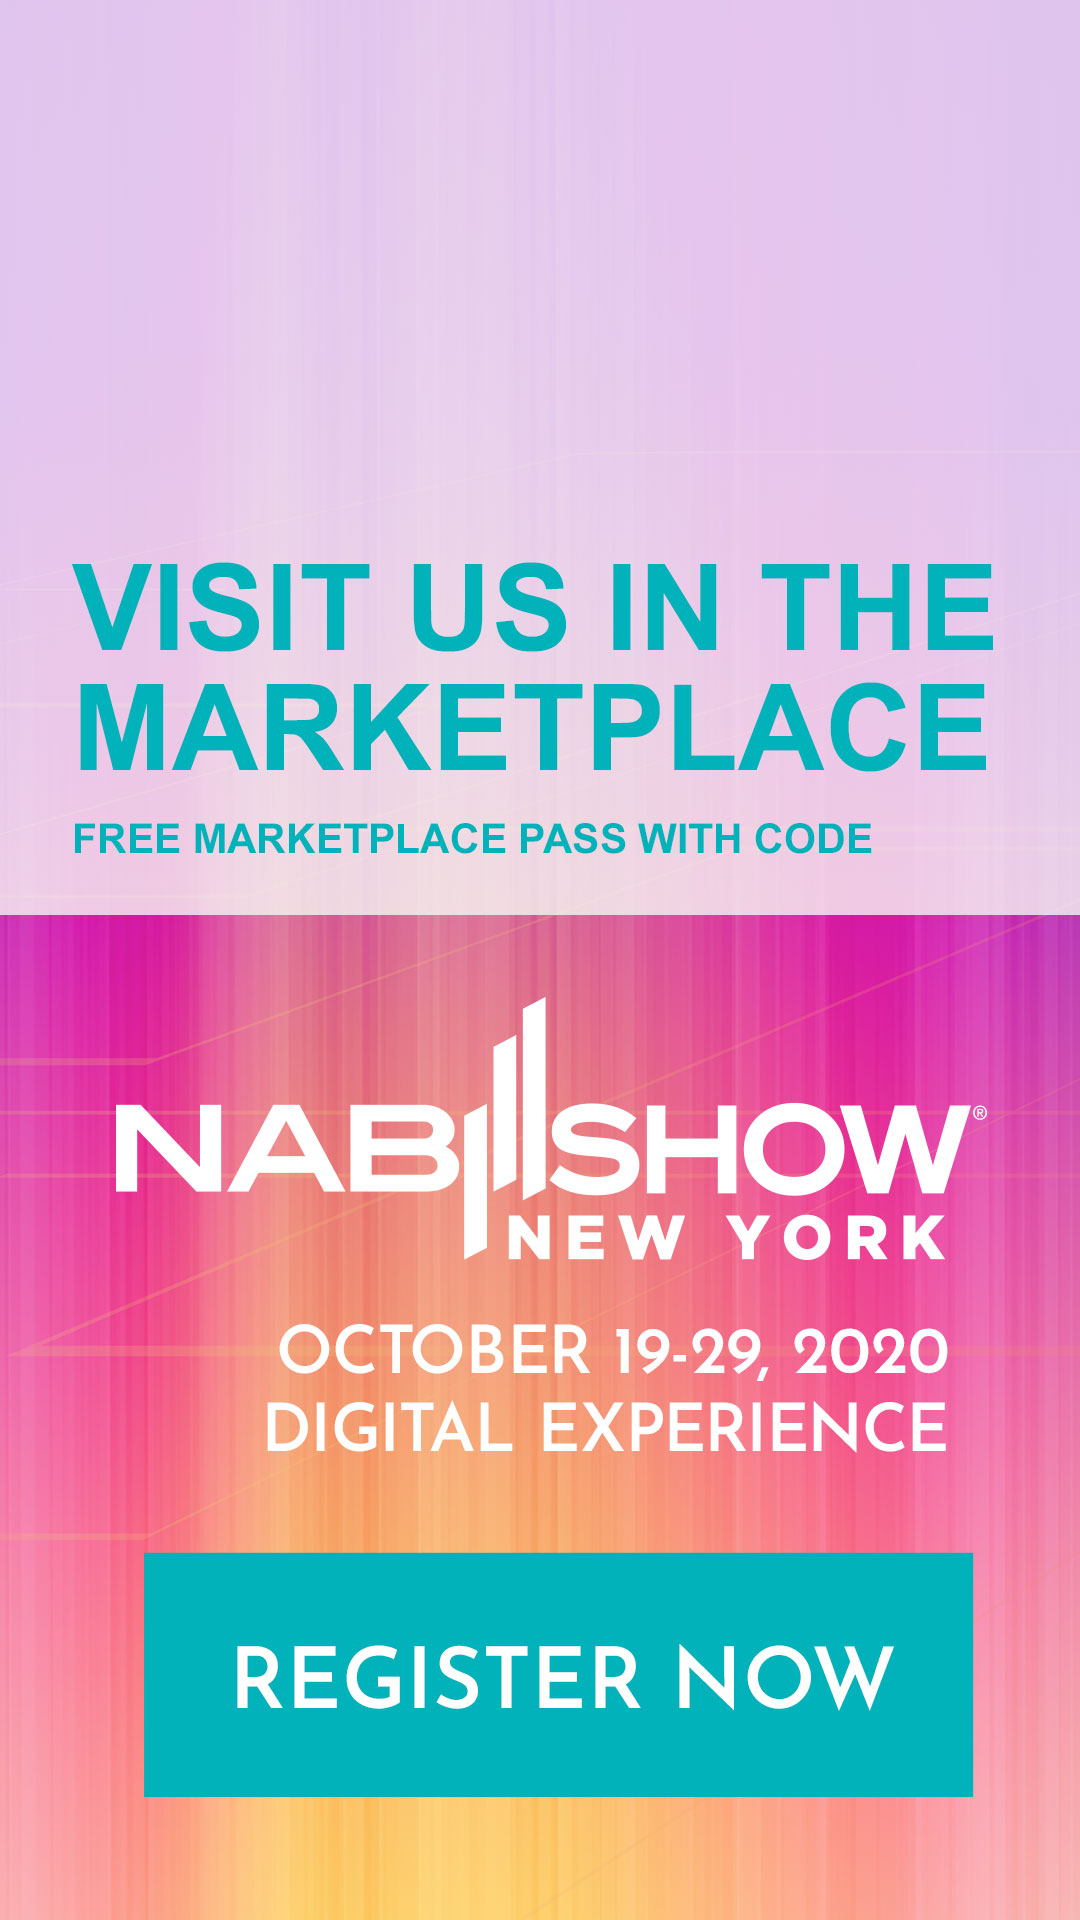
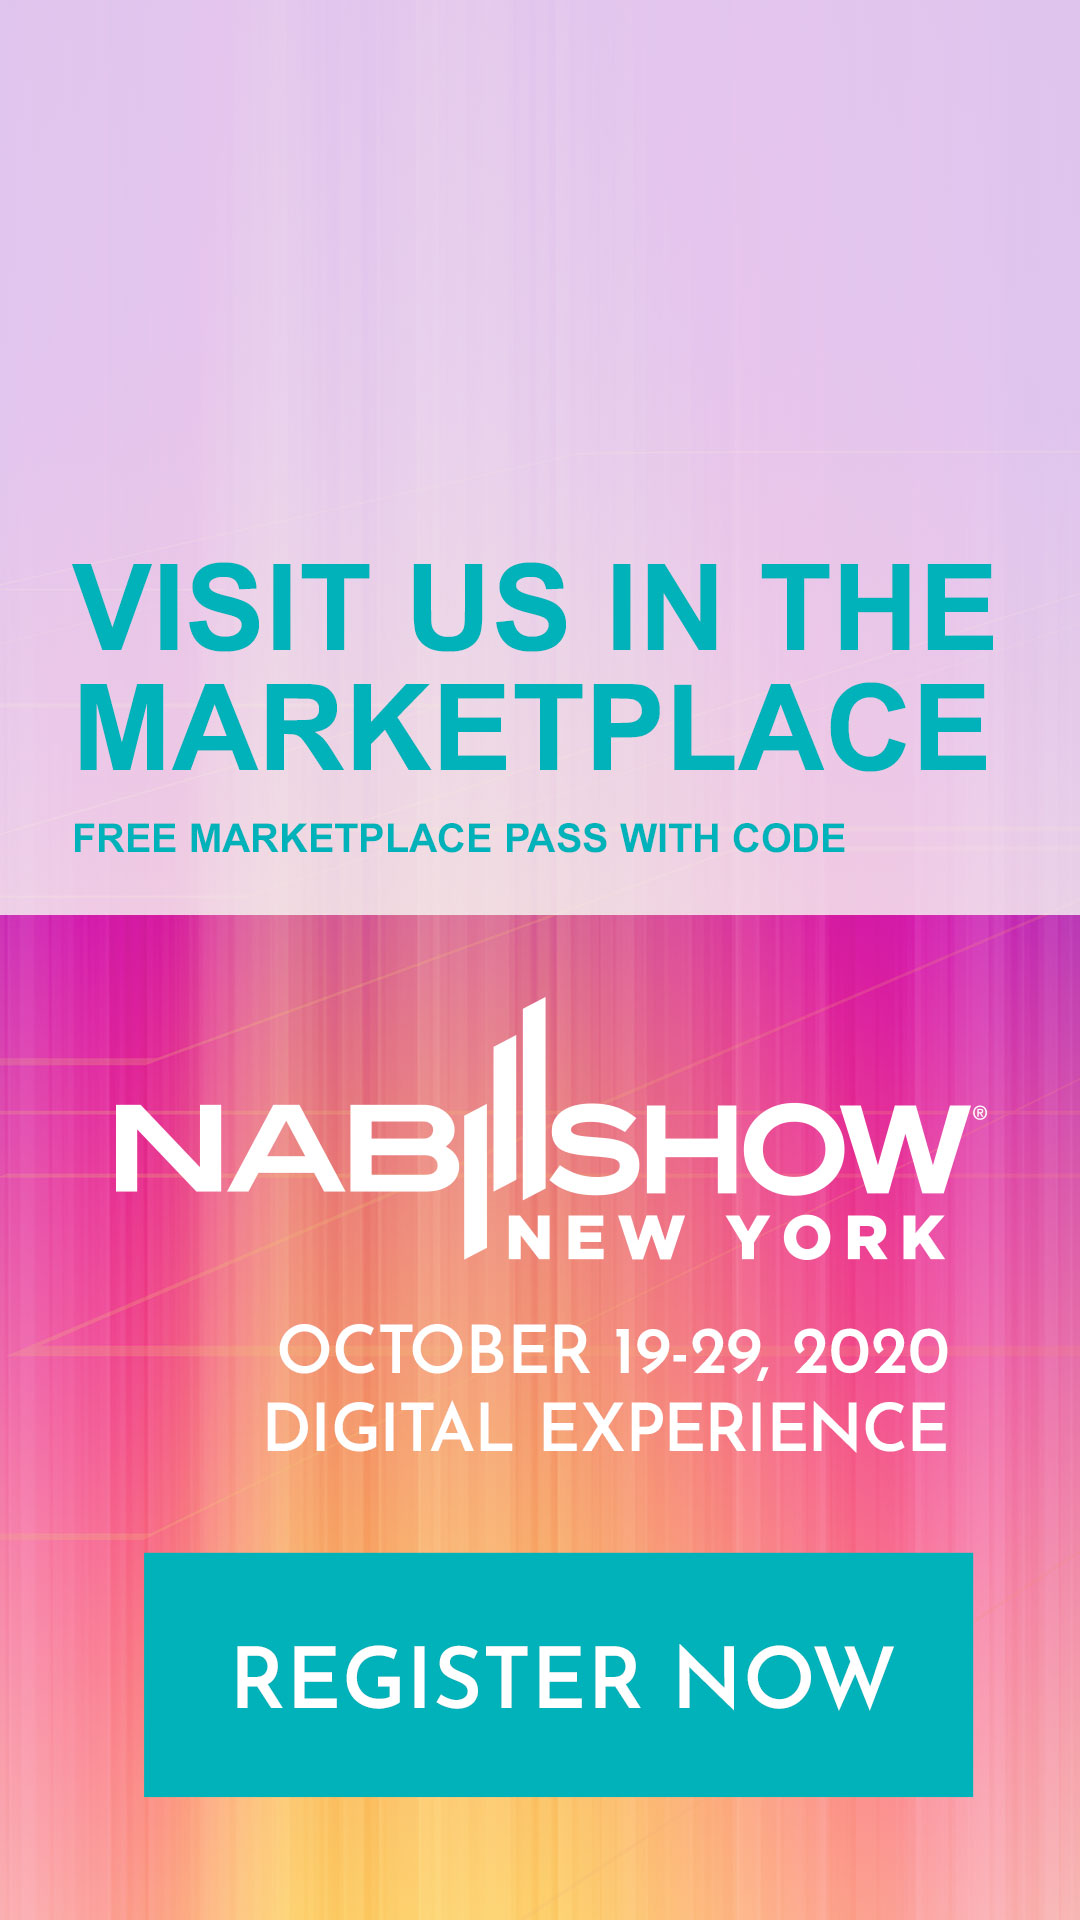
Updating 1080x1920

Changed region(s): [[0.1833, 0.4062, 0.7944, 0.4688]]

diff --git a/themes/guestpass-new/functions.php b/themes/guestpass-new/functions.php
@@ -872,9 +872,9 @@ function nab_guest_pass_generator() {
 			//'booth_x' => 200,
 			//'booth_y' => 683,
 			//'booth_size' => 132,
-			'code_x' => 856,
+			'code_x' => 866,
 			'code_y' => 820,
-			'code_size' => 32,
+			'code_size' => 31,
 			'color' => array('red'=>0,'grn'=>178,'blu'=>186),
 			'padding' => 15,
 		),
